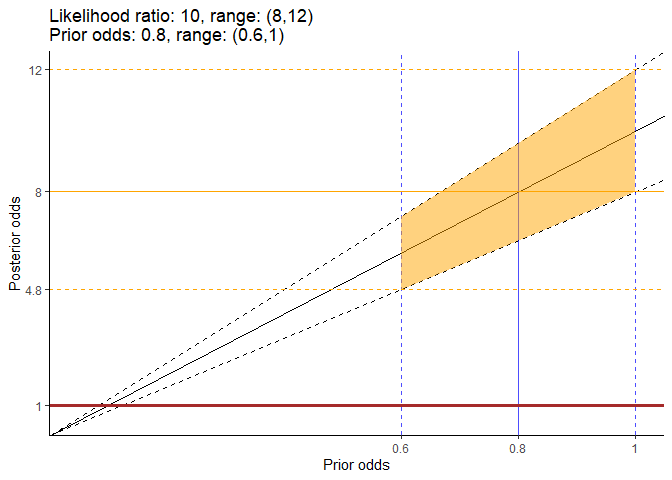
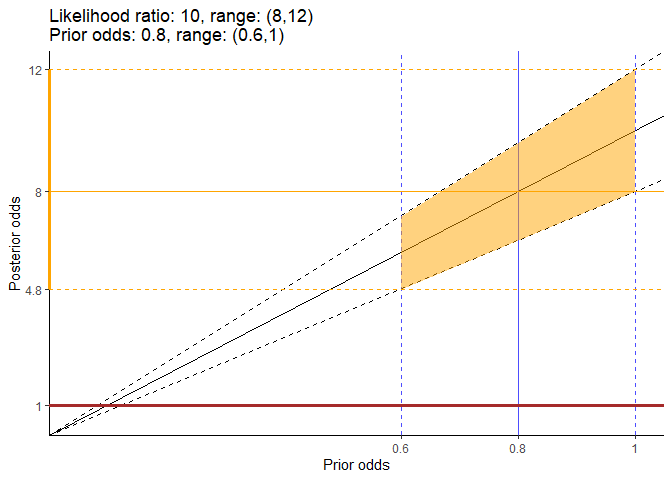
add figure update to README

diff --git a/README.md b/README.md
@@ -4,6 +4,7 @@
 # likRatioPlot
 
 <!-- badges: start -->
+
 <!-- badges: end -->
 
 The package likRatioPlot provides a function to generate a plot that
@@ -35,4 +36,4 @@ library(likRatioPlot)
 lik_ratio_plot(10, c(8, 12), .8, c(.6, 1))
 ```
 
-<img src="man/figures/README-example-1.png" width="100%" />
+<img src="man/figures/README-example-1.png" alt="" width="100%" />
